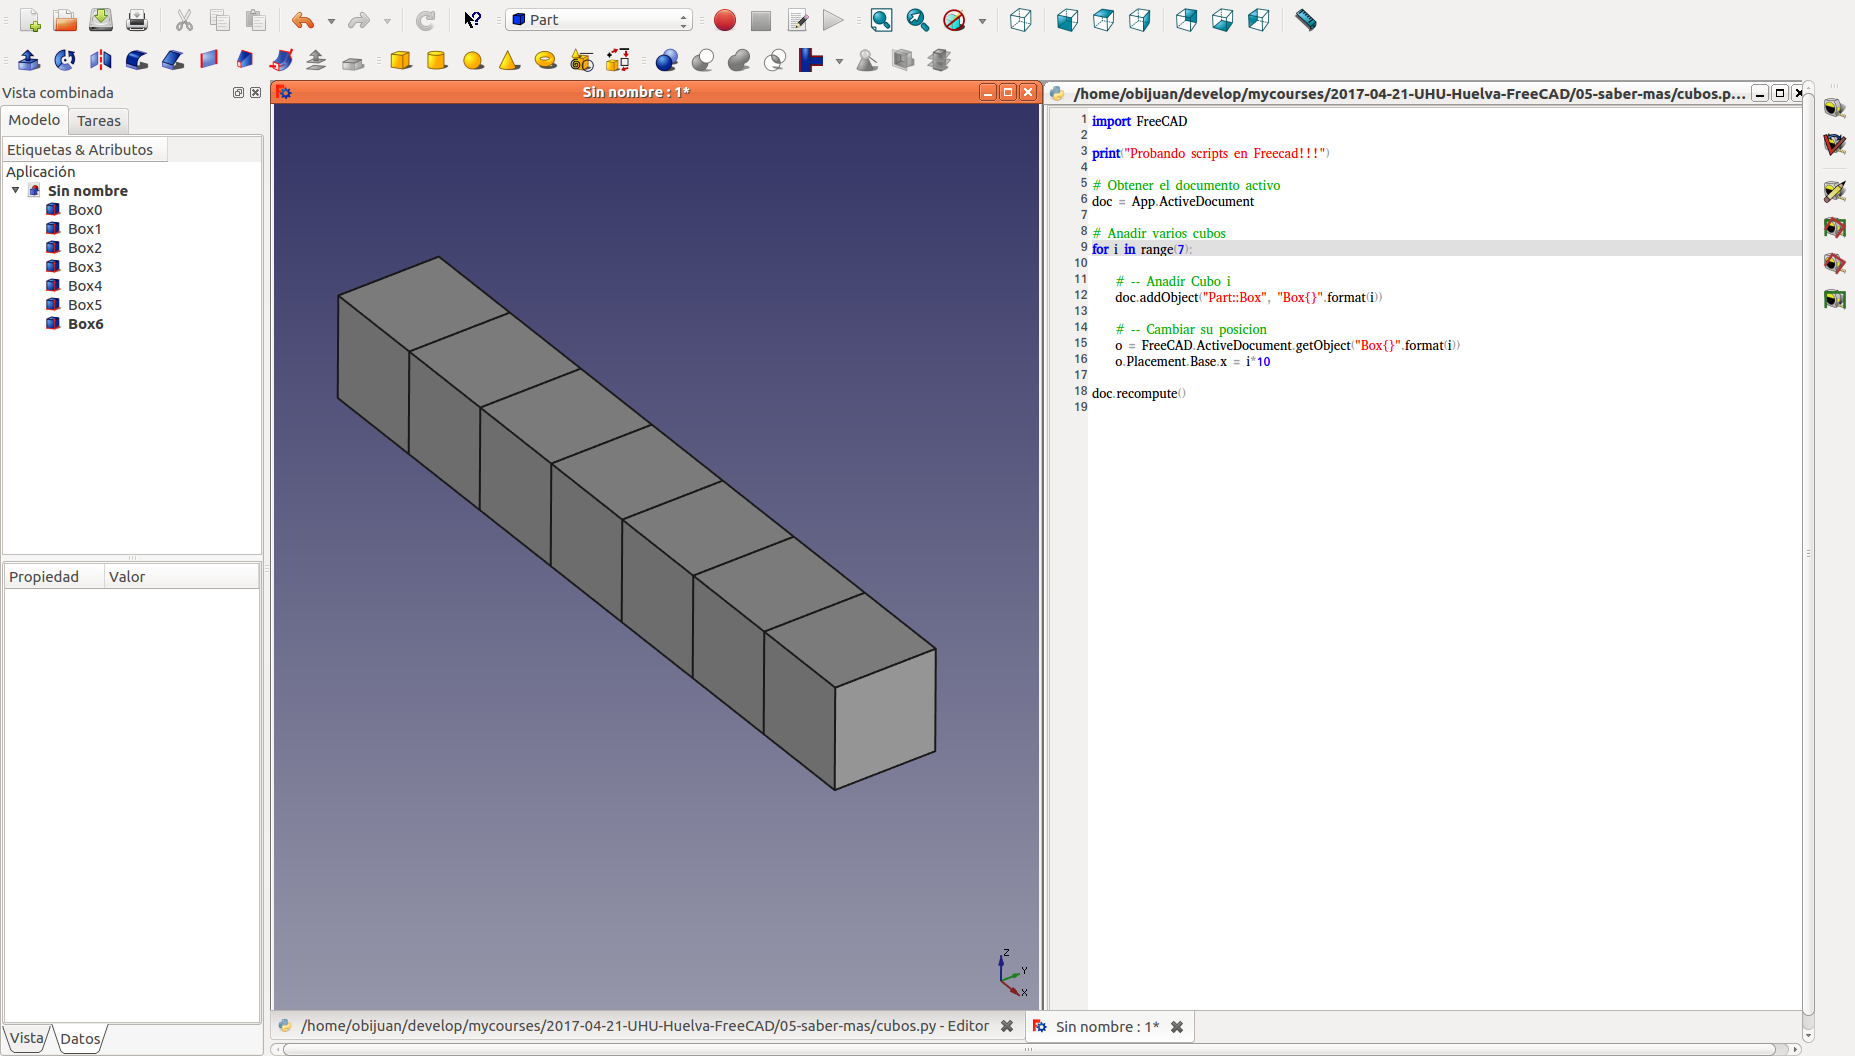
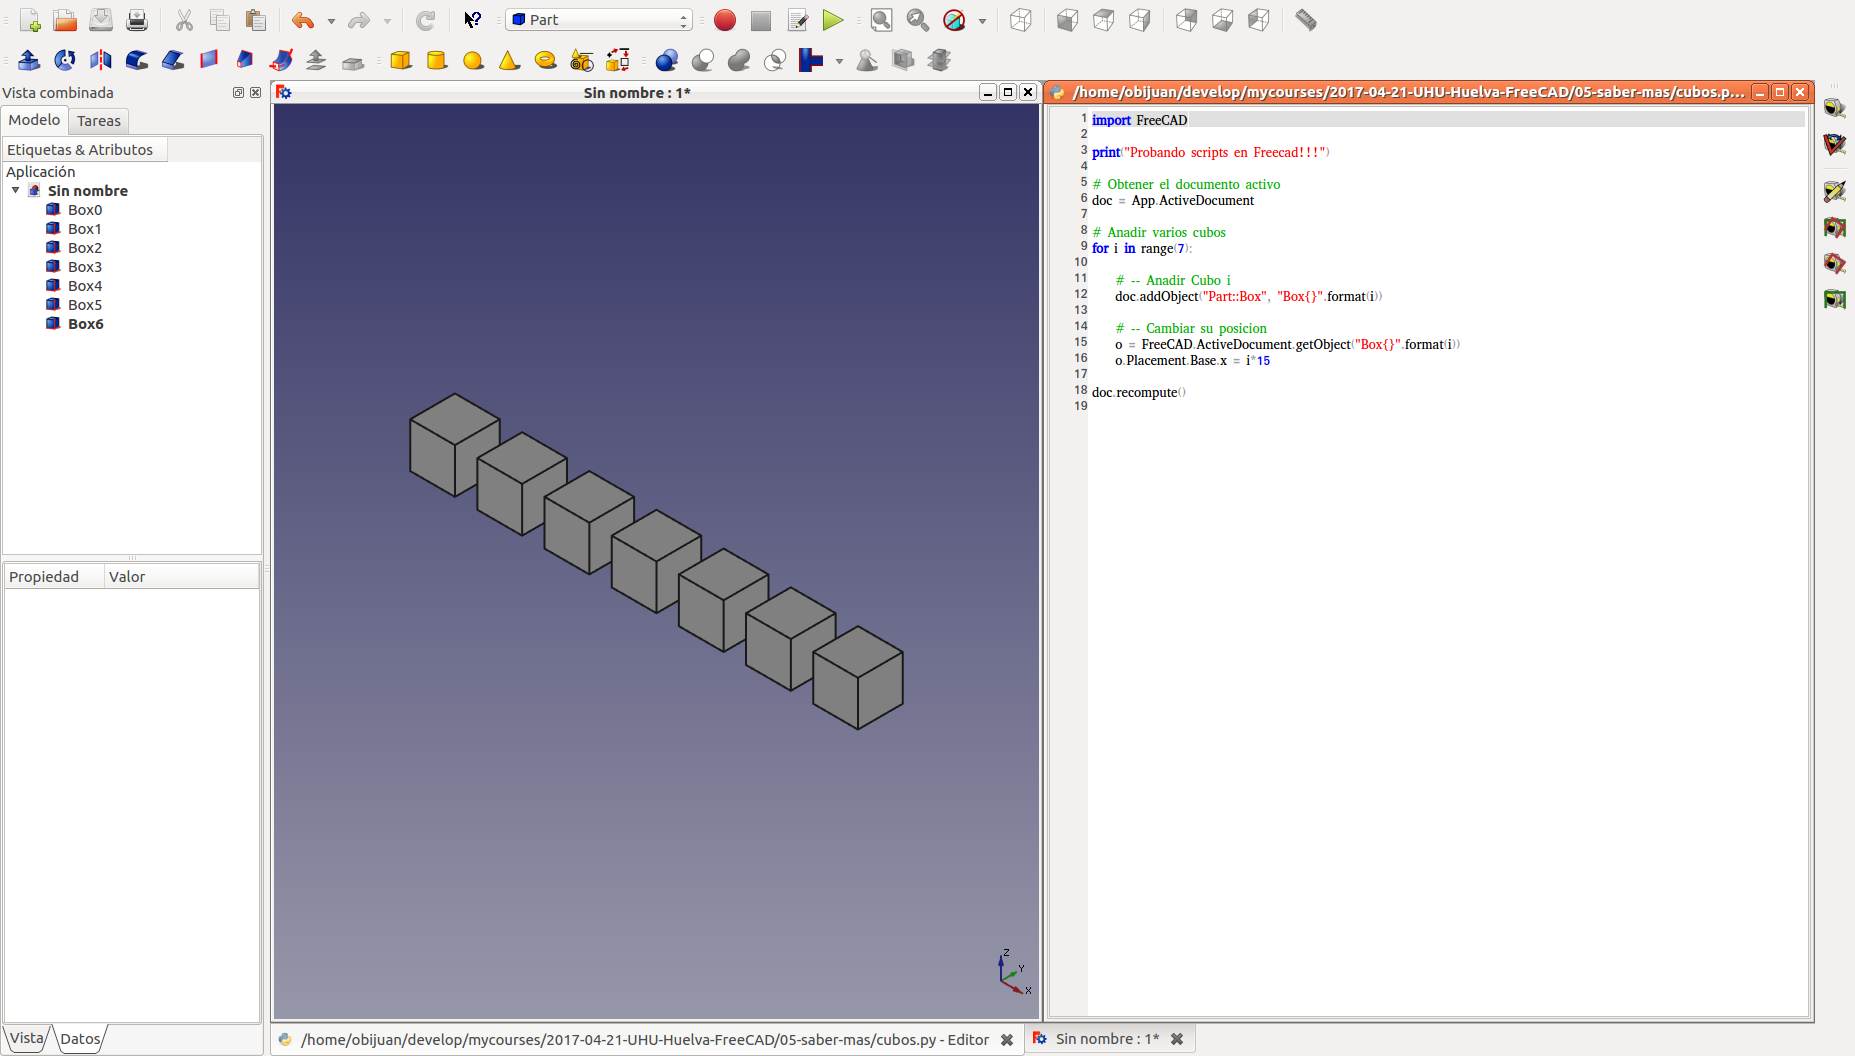
Freecad UHU: python example updated

diff --git a/2017-04-21-UHU-Huelva-FreeCAD/05-saber-mas/cubos.py b/2017-04-21-UHU-Huelva-FreeCAD/05-saber-mas/cubos.py
@@ -13,6 +13,6 @@ for i in range(7):
 
     # -- Cambiar su posicion
     o = FreeCAD.ActiveDocument.getObject("Box{}".format(i))
-    o.Placement.Base.x = i*10
+    o.Placement.Base.x = i*15
 
 doc.recompute()
